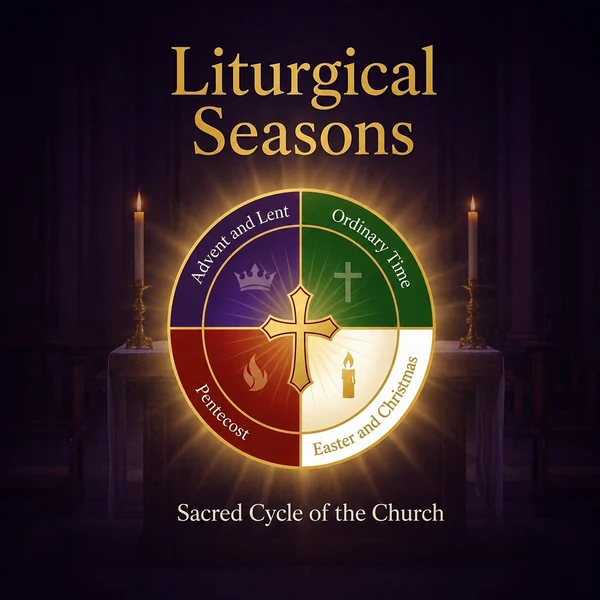
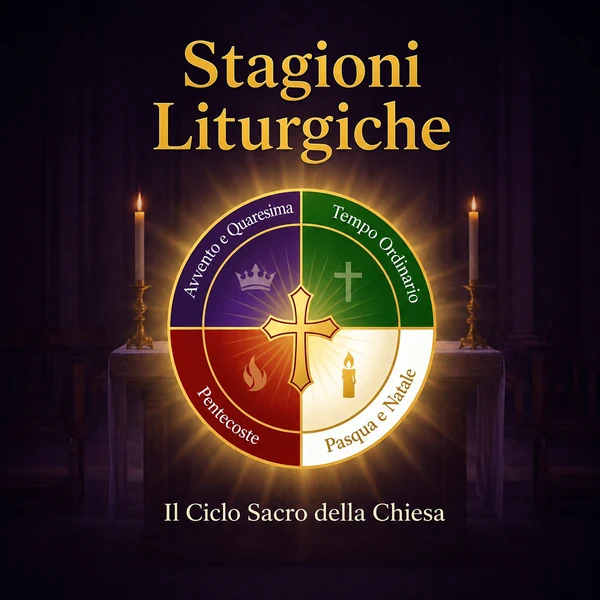
fix(funil): imagens no idioma certo nas paginas de upsell e downsell
As paginas italianas foram criadas como copia das inglesas e herdaram as
imagens junto. Algumas nem no ingles estavam certas.

Italiano:
- downsell-italiano: mockup do app estava em ESPANHOL -> italiano
- upsell2-italiano e downsell2-italiano: capa "Liturgical Seasons" em
  ingles -> "Stagioni Liturgiche" (de ITALIANO/UPSELL/CAPA/CAPA.png,
  1254x1254 redimensionada para 600x600, as dimensoes ja usadas)

Ingles:
- downsell-ingles: mockup do app estava em ESPANHOL -> ingles
  (reaproveitado o arquivo que ja existia em upsell-ingles)

Os dois downsells tambem sairam de PNG para WebP, o que exigiu ajustar
o src e o height de 1782 para 1781 (a altura real do arquivo).

Conferido: os 8 src das paginas ingles+italiano apontam para arquivos
existentes, e as imagens italianas nao sao mais byte a byte iguais as
inglesas -- que foi como o problema apareceu.

O funil latam segue com os PNGs em espanhol, que e o idioma correto dele.

diff --git a/appmissaexplicada/downsell-italiano/index.html b/appmissaexplicada/downsell-italiano/index.html
@@ -119,11 +119,11 @@
             <!-- 8. App mockup -->
             <section class="mockup-wrap">
                 <img
-                    src="mockup-app.png"
+                    src="mockup-app.webp"
                     alt="App La Messa Spiegata — schermata principale con la riflessione del giorno, il tempo liturgico e le letture."
                     class="app-mockup"
                     width="883"
-                    height="1782"
+                    height="1781"
                     loading="lazy"
                     decoding="async"
                 />

diff --git a/appmissaexplicada/downsell-ingles/index.html b/appmissaexplicada/downsell-ingles/index.html
@@ -119,11 +119,11 @@
             <!-- 8. App mockup -->
             <section class="mockup-wrap">
                 <img
-                    src="mockup-app.png"
+                    src="mockup-app.webp"
                     alt="The Mass Explained App — home screen with the daily reflection, the liturgical season and the readings."
                     class="app-mockup"
                     width="883"
-                    height="1782"
+                    height="1781"
                     loading="lazy"
                     decoding="async"
                 />
